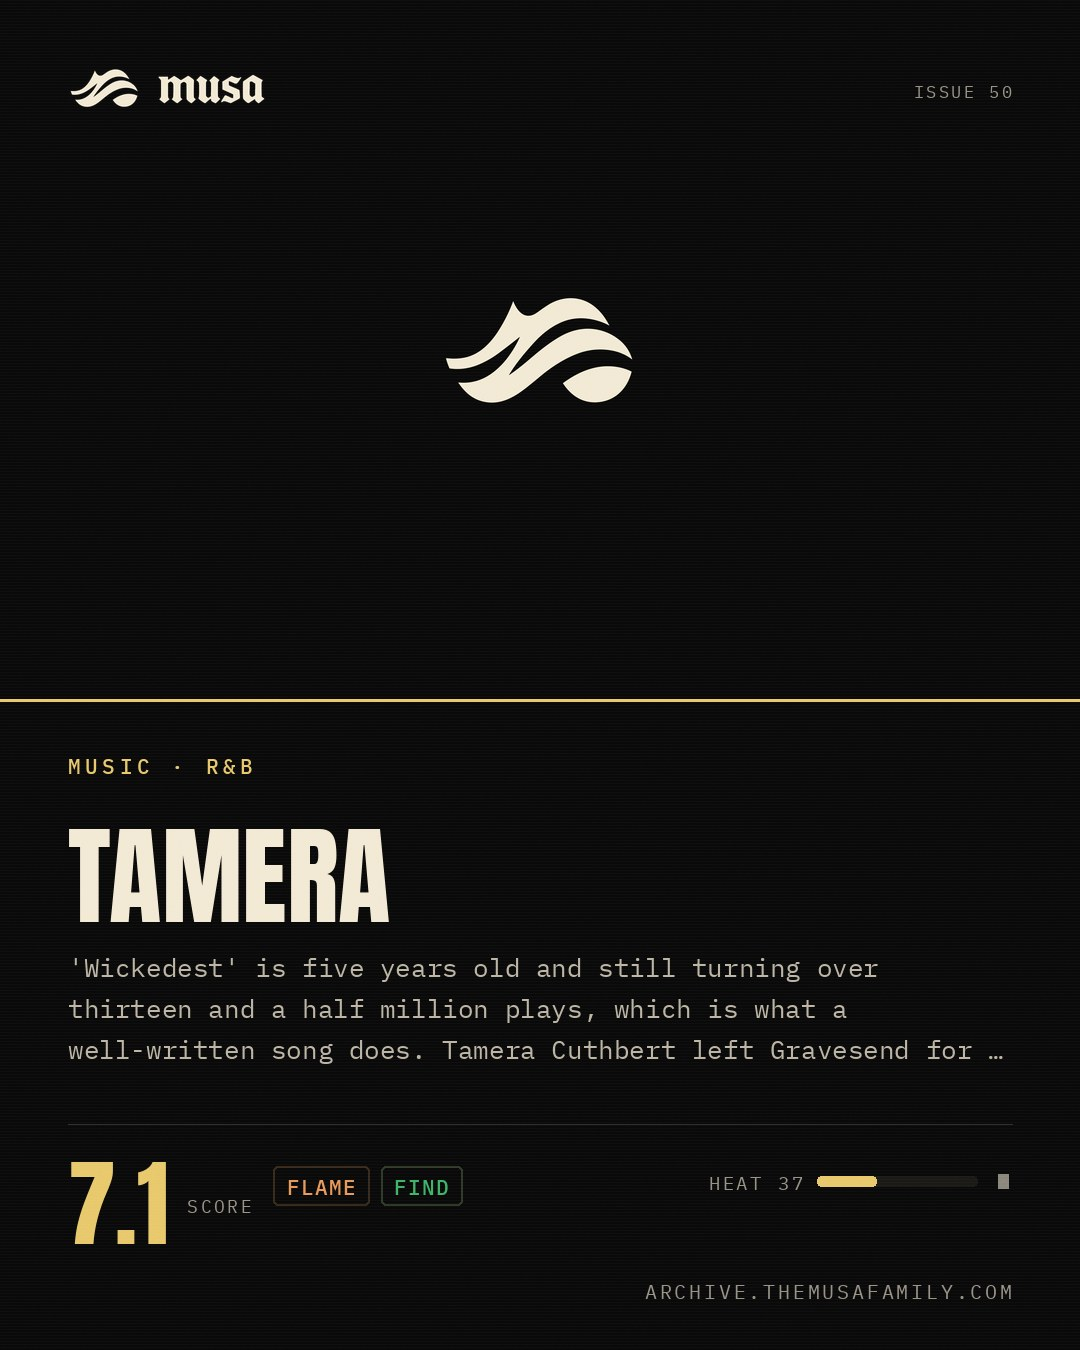
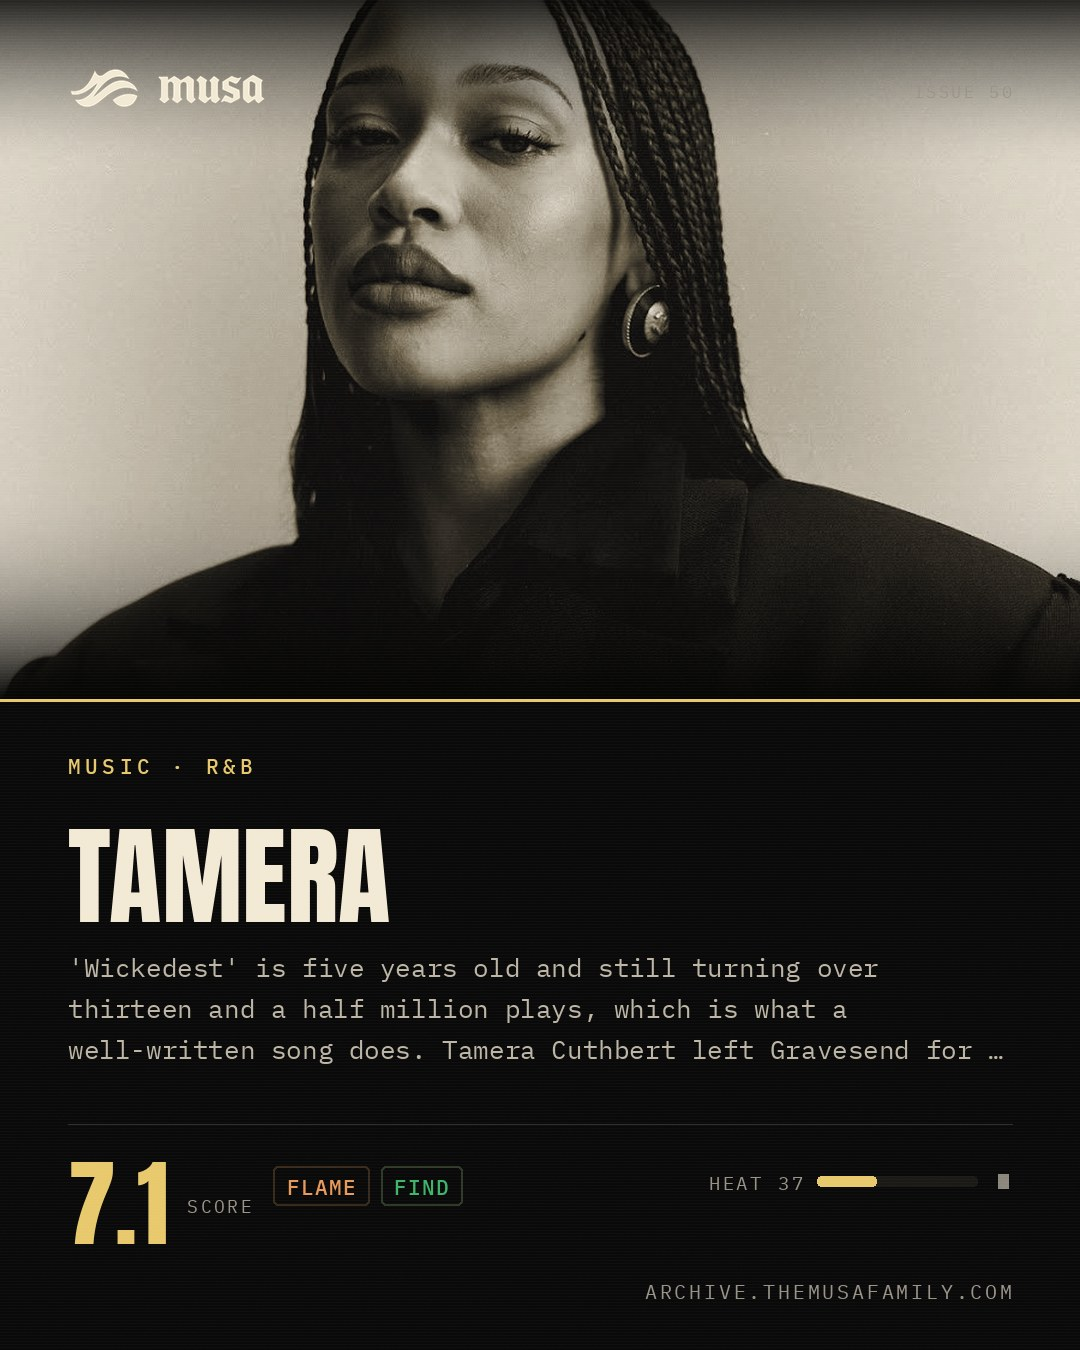
index: issue 50 — entry art for Nia Smith, Tamera

diff --git a/i/tamera/index.html b/i/tamera/index.html
@@ -131,7 +131,7 @@ footer b{font-family:var(--mono);font-size:9px;color:#b8b09c;letter-spacing:.2em
 </header>
 <div class="eyebrow">ISSUE 50 &nbsp;·&nbsp; <span class="a">AUG 2 2026</span> &nbsp;·&nbsp; MUSIC · R&amp;B</div>
 <h1>Tamera</h1>
-<figure class="art"><img src="https://archive.themusafamily.com/img/musa-mark.png" alt="Tamera" loading="lazy" style="height:320px;object-fit:contain;background:#0a0a0a" onerror="this.onerror=null;this.src='https://archive.themusafamily.com/img/musa-mark.png';this.style.objectFit='contain';this.style.background='#0a0a0a'"></figure>
+<figure class="art"><img src="https://archive.themusafamily.com/img/entries/tamera.jpg" alt="Tamera" loading="lazy" onerror="this.onerror=null;this.src='https://archive.themusafamily.com/img/musa-mark.png';this.style.objectFit='contain';this.style.background='#0a0a0a'"></figure>
 <div class="read">&#x27;Wickedest&#x27; is five years old and still turning over thirteen and a half million plays, which is what a well-written song does. Tamera Cuthbert left Gravesend for London in 2017, made Afrodite in 2021 with P2J on the boards, followed it with L.I.T (Lost in Translation) in 2023, and has spent this year in a generous run of singles: &#x27;Blessings,&#x27; &#x27;Helpless,&#x27; &#x27;Sinner,&#x27; then &#x27;Undeniable&#x27; with Aitch in May. The tone is the asset. She is identifiable inside four bars, which almost nobody in this lane manages, and she has taken her time rather than shipped to a schedule. The debut album is coming through Moonshyne and Big Effect. It is the one on this board still to be heard.</div>
 <div class="rail">
   <span class="sc">7.1<small>SCORE</small></span>

diff --git a/i/payback-is-a-dog-nia-smith/index.html b/i/payback-is-a-dog-nia-smith/index.html
@@ -131,7 +131,7 @@ footer b{font-family:var(--mono);font-size:9px;color:#b8b09c;letter-spacing:.2em
 </header>
 <div class="eyebrow">ISSUE 50 &nbsp;·&nbsp; <span class="a">AUG 2 2026</span> &nbsp;·&nbsp; MUSIC · UK R&amp;B</div>
 <h1>Payback Is A Dog — Nia Smith</h1>
-<figure class="art"><img src="https://linkstorage.linkfire.com/medialinks/images/001c265a-2a39-4ca3-996d-33c8214a5995/artwork-600x315" alt="Payback Is A Dog — Nia Smith" loading="lazy" onerror="this.onerror=null;this.src='https://archive.themusafamily.com/img/musa-mark.png';this.style.objectFit='contain';this.style.background='#0a0a0a'"></figure>
+<figure class="art"><img src="https://archive.themusafamily.com/img/entries/payback-is-a-dog-nia-smith.jpg" alt="Payback Is A Dog — Nia Smith" loading="lazy" onerror="this.onerror=null;this.src='https://archive.themusafamily.com/img/musa-mark.png';this.style.objectFit='contain';this.style.background='#0a0a0a'"></figure>
 <div class="read">&#x27;I&#x27;m kind of exhausted at the moment,&#x27; she told NME from Brixton, a week short of her birthday and a month after Payback Is A Dog landed on 29 May via 0207 Def Jam. The exhaustion is earned. Jools Holland, Glastonbury, a Popcaan remix, an Ivor Novello Rising Star nomination, a MOBO Best Newcomer nod, and an invitation from Prada to Milan. Second EP, second time the room was right.</div>
 <div class="rail">
   <span class="sc">7.9<small>SCORE</small></span>
